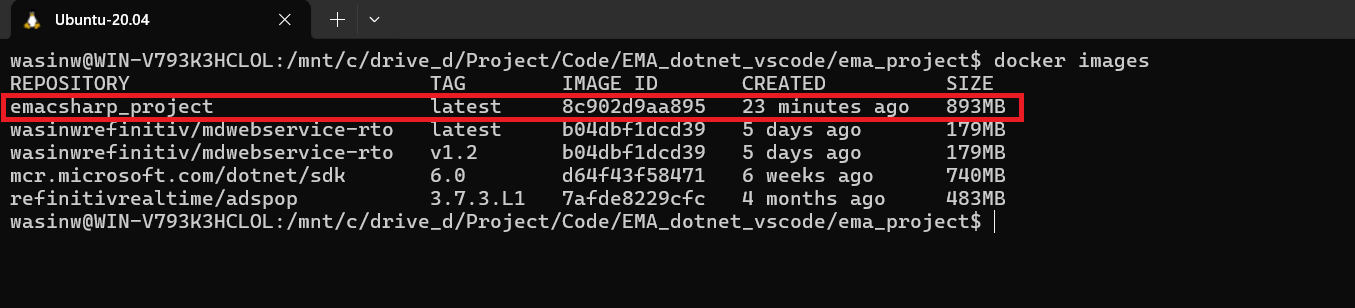
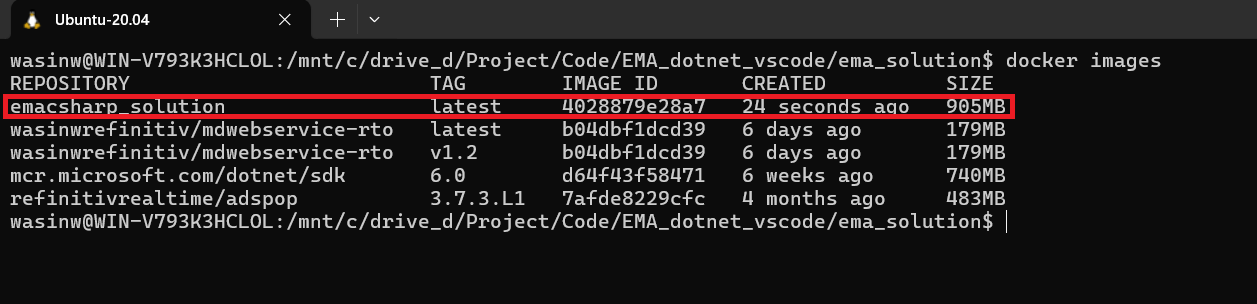
Update example to use EMA Solution Add Optimize your Dockerfile for dotnet Restore

Changed region(s): [[0.0, 0.148, 0.9308, 0.7697], [0.0, 0.0296, 0.1241, 0.0888], [0.1862, 0.0, 0.2792, 0.148]]

diff --git a/Article_Docker.md b/Article_Docker.md
@@ -23,7 +23,7 @@ Container Benefits:
 - Streamline the whole dev and test cycle by shipping the application as container which is easy for deployment.
 - Increases collaboration and efficiency between dev and operations teams to ship apps faster.
 - Portability between OS platforms and between clouds.
-- Container is lightweight, so many containers can be supported on the same infrastructure. 
+- Container is lightweight, so many containers can be supported on the same infrastructure.
 - Easy for rapid scale-up and scale-down scenarios.
 
 ## Containerize EMA C# Project and Solution
@@ -32,12 +32,15 @@ The [.NET Docker Images](https://github.com/dotnet/dotnet-docker) are hosted on 
 
 ### Docker ignore file
 
-Before I am going further, let's start by creating a ```.dockerignore``` file inside a ```ema_project``` folder to define the files/folders that we do not want Docker to build or copy to an image. Those files and folders are the compiled files/folders in our environment and a ```.env``` file.
+Before I am going further, let's start by creating a ```.dockerignore``` file inside a ```ema_solution``` folder to define the files/folders that we do not want Docker to build or copy to an image. Those files and folders are the compiled files/folders in our environment and a ```.env``` file.
 
 ```ini
-bin/
-obj/
-.env
+EMAConsumer/bin/
+EMAConsumer/obj/
+EMAConsumer/.env
+EMAConsumer/.env.example
+JSONUtil/bin/
+JSONUtil/obj/
 global.json
 ```
 
@@ -45,7 +48,7 @@ global.json
 
 ### Let's build our first image
 
-The easiest way is to copy our project/solution source code to a container and use [.NET SDK images](https://hub.docker.com/_/microsoft-dotnet-sdk/) to build and run the application. I am demonstrating with the ```ema_project``` project with the ```mcr.microsoft.com/dotnet/sdk:6.0``` .NET 6 Docker image. A ```Dockerfile``` (inside a ```ema_project``` folder) is as follows:
+The easiest way is to copy our project/solution source code to a container and use [.NET SDK images](https://hub.docker.com/_/microsoft-dotnet-sdk/) to build and run the application. I am demonstrating with the ```ema_solution``` project with the ```mcr.microsoft.com/dotnet/sdk:6.0``` .NET 6 Docker image. A ```Dockerfile``` (inside a ```ema_solution``` folder) is as follows:
 
 ```dockerfile
 FROM mcr.microsoft.com/dotnet/sdk:6.0
@@ -59,14 +62,16 @@ COPY . ./
 RUN dotnet restore
 # Build and publish a release
 RUN dotnet publish --configuration Release -o out
+#Copy EmaConfig.xml
+COPY EMAConsumer/EmaConfig.xml .
 #Run the application
-ENTRYPOINT ["dotnet","/App/out/ema_project.dll"]
+ENTRYPOINT ["dotnet","/App/out/EMAConsumer.dll"]
 ```
 
 Then build a docker image from with the following [docker build](https://docs.docker.com/reference/cli/docker/image/build/) command:
 
 ```bash
-docker build . -t emacsharp_project
+docker build . -t emacsharp_solution
 ```
 
 Once a build process is successful, you can use a [docker images](https://docs.docker.com/reference/cli/docker/image/ls/) command to check our newly created Docker image.
@@ -76,18 +81,55 @@ Once a build process is successful, you can use a [docker images](https://docs.d
 We can run a EMA C# project container via a [docker run](https://docs.docker.com/reference/cli/docker/container/run/) command as follows (you should have a ```.env``` file that have your Authentication Version 2 define in it):
 
 ```bash
-docker run -it --name emacsharp_project --env-file .env emacsharp_project
+docker run -it --name emacsharp_solution --env-file EMAConsumer/.env emacsharp_solution
 ```
 
 Result:
 
 ![figure-3](images/container/container_3.png)
 
-However, our images isn't optimized yet. The image size is 893mb which is very huge. It is ideally to share smaller images among the teams.
+However, our images isn't optimized yet. The image size is also 893mb which is very huge. It is ideally to share smaller images among the teams.
+
+### Optimize dotnet Restore
+
+By default, each instruction in a Dockerfile translates to a layer in your final image in an order specified. If Docker finds that you have already executed a similar instruction before, Docker skips that layer and uses the cached result instead. However, if there is a layer that have been changed (updated code, add new instruction, etc.), that layer will need to be re-built. And if a layer is changed, all other layers that come after it are also affected and need to re-built too.
+
+This is called a *Docker build cache*. One main target of a Dockerfile optimization is structuring a Dockerfile to reuse results from previous builds and skipping unnecessary work as much as possible.
+
+For .NET application, it is advisable to copy only the **.csproj**, **.sln**, and **nuget.config** files for your application before performing a [dotnet restore](https://learn.microsoft.com/en-us/dotnet/core/tools/dotnet-restore) command. By copying those files first, Docker can cache the project dependencies restoration result, and the dependencies restoration process will not be effected by just a code changed.
+
+```dockerfile
+FROM mcr.microsoft.com/dotnet/sdk:6.0
+
+# Create app directory
+WORKDIR /App
+
+# Copy project files
+COPY ema_solution.sln ./
+COPY EMAConsumer/EMAConsumer.csproj /App/EMAConsumer/EMAConsumer.csproj
+COPY JSONUtil/JSONUtil.csproj /App/JSONUtil/JSONUtil.csproj
+# Restore as distinct layers
+RUN dotnet restore
+# Copy everything else
+COPY . ./
+# Build and publish a release
+RUN dotnet publish --configuration Release -o out
+
+#Copy EmaConfig.xml
+COPY EMAConsumer/EmaConfig.xml .
+#Run the application
+ENTRYPOINT ["dotnet","/App/out/EMAConsumer.dll"]
+```
+
+Now, we have optimized our Dockerfile to copy the solution *.sln* and *.csproj* files and run a *dotnet restore* command before copy the source code. However, if you run a *docker images* command you will be noticed that the image size does not change. How can we reduce our image size?
+
+### Multi-Stage Build
+
+[tbd]
 
 ## Reference
 
 - [Docker: Containerize a .NET application](https://docs.docker.com/language/dotnet/containerize/)
 - [Microsoft Learn: Tutorial - Containerize a .NET app](https://learn.microsoft.com/en-us/dotnet/core/docker/build-container?tabs=windows&pivots=dotnet-8-0)
 - [Docker Blog: 9 Tips for Containerizing Your .NET Application](https://www.docker.com/blog/9-tips-for-containerizing-your-net-application/)
-- 
+-
